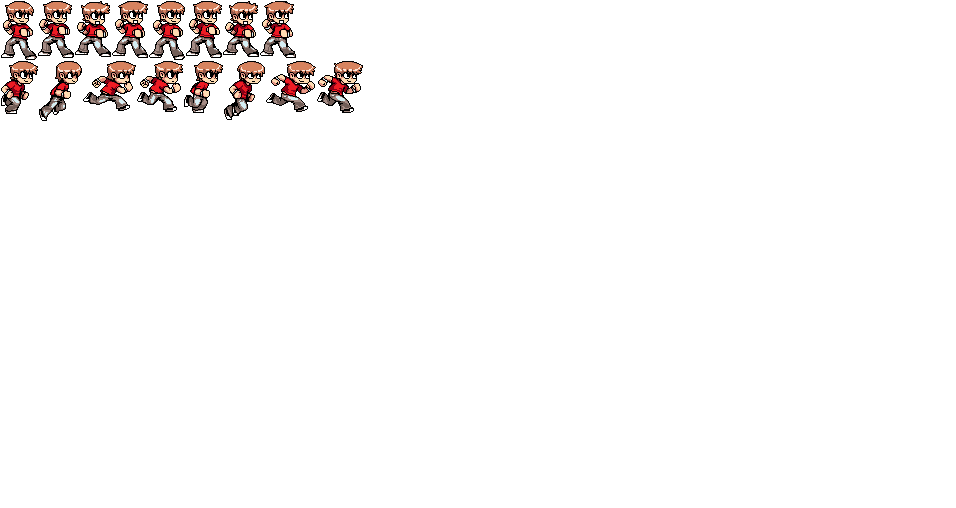
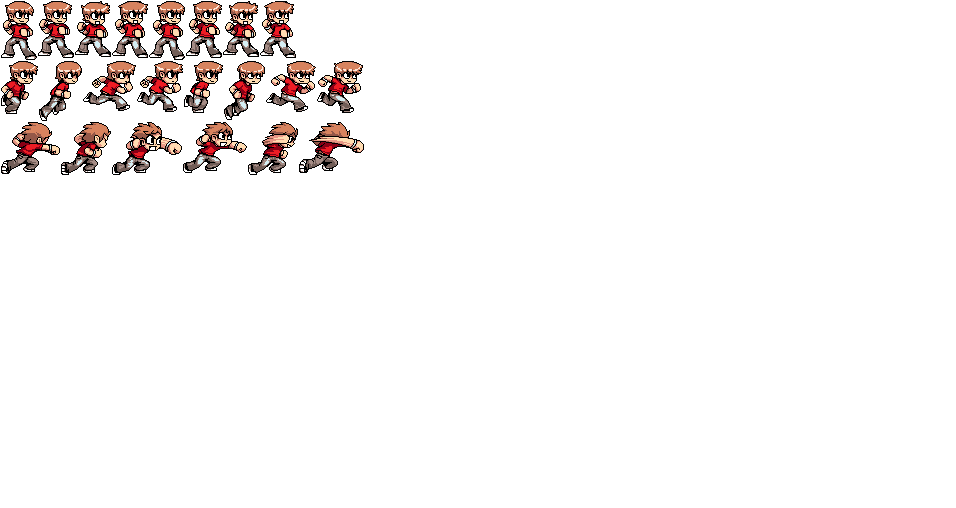
add punching animation

Changed region(s): [[0.0, 0.2362, 0.3944, 0.3543]]

diff --git a/Scripts/objects/player.ts b/Scripts/objects/player.ts
@@ -33,7 +33,7 @@ module objects {
         update(input: managers.Input) {
             //var diffRegX = this.widths[constants.Animations[this.currentAnimation]][player.currentFrame] * 0.5 - this.regX;
             //var diffRegY = this.heights[constants.Animations[this.currentAnimation]][player.currentFrame] * 0.5 - this.regX;
-
+            console.log(this.currentAnimation + ' ');
             this.regX = this.widths[constants.Animations[this.currentAnimation]][player.currentFrame] * 0.5;
             this.regY = this.heights[constants.Animations[this.currentAnimation]][player.currentFrame] * 0.5;
             //this.x += diffRegX;
@@ -47,31 +47,35 @@ module objects {
             }
             */
 
-            if (input.isKeyDown(constants.RIGHT)) {
-                this.scaleX = 1;
-                if (this.currentAnimation != "dash") {
-                    this.gotoAndPlay("dash");
+            if (this.currentAnimation != "attack") {
+                if (input.isKeyDown(constants.RIGHT)) {
+                    this.scaleX = 1;
+                    if (this.currentAnimation != "dash") {
+                        this.gotoAndPlay("dash");
+                    }
+                    this.x += this.speed;
+                    this.actualX += this.speed;
+                    this.lastMovement = this.speed;
+                } else if (input.isKeyDown(constants.LEFT)) {
+                    this.scaleX = -1;
+                    if (this.currentAnimation != "dash") {
+                        this.gotoAndPlay("dash");
+                    }
+                    this.x -= this.speed;
+                    this.actualX -= this.speed;
+                    this.lastMovement = -this.speed;
                 }
-                this.x += this.speed;
-                this.actualX += this.speed;
-                this.lastMovement = this.speed;
-            } else if (input.isKeyDown(constants.LEFT)) {
-                this.scaleX = -1;
-                if (this.currentAnimation != "dash") {
-                    this.gotoAndPlay("dash");
-                }
-                this.x -= this.speed;
-                this.actualX -= this.speed;
-                this.lastMovement = -this.speed;
-            }
-            else {
-                this.lastMovement = 0;
-                if (this.currentAnimation != "idle") {
-                    this.gotoAndPlay("idle");
+                else {
+                    this.lastMovement = 0;
+                    if (this.currentAnimation != "idle") {
+                        this.gotoAndPlay("idle");
+                    }
                 }
             }
             if(input.hasKeyBeenUp(constants.SPACE)) {
-                console.log('space');
+                if (this.currentAnimation != "attack") {
+                    this.gotoAndPlay("attack");
+                }
             }
         }
 

diff --git a/Scripts/objects/player.js b/Scripts/objects/player.js
@@ -38,6 +38,7 @@ var objects;
         Player.prototype.update = function (input) {
             //var diffRegX = this.widths[constants.Animations[this.currentAnimation]][player.currentFrame] * 0.5 - this.regX;
             //var diffRegY = this.heights[constants.Animations[this.currentAnimation]][player.currentFrame] * 0.5 - this.regX;
+            console.log(this.currentAnimation + ' ');
             this.regX = this.widths[constants.Animations[this.currentAnimation]][player.currentFrame] * 0.5;
             this.regY = this.heights[constants.Animations[this.currentAnimation]][player.currentFrame] * 0.5;
 
@@ -51,30 +52,34 @@ var objects;
             console.log('down');
             }
             */
-            if (input.isKeyDown(constants.RIGHT)) {
-                this.scaleX = 1;
-                if (this.currentAnimation != "dash") {
-                    this.gotoAndPlay("dash");
-                }
-                this.x += this.speed;
-                this.actualX += this.speed;
-                this.lastMovement = this.speed;
-            } else if (input.isKeyDown(constants.LEFT)) {
-                this.scaleX = -1;
-                if (this.currentAnimation != "dash") {
-                    this.gotoAndPlay("dash");
-                }
-                this.x -= this.speed;
-                this.actualX -= this.speed;
-                this.lastMovement = -this.speed;
-            } else {
-                this.lastMovement = 0;
-                if (this.currentAnimation != "idle") {
-                    this.gotoAndPlay("idle");
+            if (this.currentAnimation != "attack") {
+                if (input.isKeyDown(constants.RIGHT)) {
+                    this.scaleX = 1;
+                    if (this.currentAnimation != "dash") {
+                        this.gotoAndPlay("dash");
+                    }
+                    this.x += this.speed;
+                    this.actualX += this.speed;
+                    this.lastMovement = this.speed;
+                } else if (input.isKeyDown(constants.LEFT)) {
+                    this.scaleX = -1;
+                    if (this.currentAnimation != "dash") {
+                        this.gotoAndPlay("dash");
+                    }
+                    this.x -= this.speed;
+                    this.actualX -= this.speed;
+                    this.lastMovement = -this.speed;
+                } else {
+                    this.lastMovement = 0;
+                    if (this.currentAnimation != "idle") {
+                        this.gotoAndPlay("idle");
+                    }
                 }
             }
             if (input.hasKeyBeenUp(constants.SPACE)) {
-                console.log('space');
+                if (this.currentAnimation != "attack") {
+                    this.gotoAndPlay("attack");
+                }
             }
         };
 

diff --git a/Scripts/managers/asset.ts b/Scripts/managers/asset.ts
@@ -10,22 +10,28 @@ module managers {
     var newPlayerSheetData = {
         "images": ["assets/images/newPlayer.png"],
         "frames": [
-            [1, 1, 36, 59],    //idle      [0]
-            [38, 1, 36, 57],   //idle      [1]
-            [75, 1, 36, 56],   //idle      [2]
-            [112, 1, 36, 57],  //idle      [3]
-            [149, 1, 36, 59],  //idle      [4]
-            [186, 1, 36, 57],  //idle      [5]
-            [223, 1, 36, 56],  //idle      [6]
-            [260, 1, 36, 57],  //idle      [7]
-            [1, 61, 37, 53],   //dash      [8]
-            [39, 61, 43, 60],  //dash      [9]
-            [84, 61, 53, 60],  //dash     [10]
-            [137, 61, 46, 51], //dash     [11]
-            [185, 61, 39, 52], //dash     [12]
-            [224, 61, 41, 59], //dash     [13]
-            [266, 61, 50, 51], //dash     [14]
-            [317, 61, 46, 52]  //dash     [15]
+            [1, 1, 36, 59],     //idle      [0]
+            [38, 1, 36, 57],    //idle      [1]
+            [75, 1, 36, 56],    //idle      [2]
+            [112, 1, 36, 57],   //idle      [3]
+            [149, 1, 36, 59],   //idle      [4]
+            [186, 1, 36, 57],   //idle      [5]
+            [223, 1, 36, 56],   //idle      [6]
+            [260, 1, 36, 57],   //idle      [7]
+            [1, 61, 37, 53],    //dash      [8]
+            [39, 61, 43, 60],   //dash      [9]
+            [84, 61, 53, 60],   //dash     [10]
+            [137, 61, 46, 51],  //dash     [11]
+            [185, 61, 39, 52],  //dash     [12]
+            [224, 61, 41, 59],  //dash     [13]
+            [266, 61, 50, 51],  //dash     [14]
+            [317, 61, 46, 52],  //dash     [15]
+            [1, 122, 59, 52],   //attack   [16]
+            [61, 122, 50, 53],  //attack   [17]
+            [112, 122, 70, 53], //attack   [18]
+            [183, 122, 64, 51], //attack   [19]
+            [248, 122, 50, 53], //attack   [20]
+            [299, 122, 65, 51]  //attack   [21]
         ],
         "animations": {
             "idle": {
@@ -34,6 +40,11 @@ module managers {
             },
             "dash": {
                 frames: [8, 9, 10, 11, 12, 13, 14, 15],
+                speed: constants.ANIMATION_TIME
+            },
+            "attack": {
+                frames: [16, 17, 18, 19, 20, 21],
+                next: "idle",
                 speed: constants.ANIMATION_TIME
             }
         }

diff --git a/Scripts/managers/asset.js b/Scripts/managers/asset.js
@@ -25,7 +25,13 @@ var managers;
             [185, 61, 39, 52],
             [224, 61, 41, 59],
             [266, 61, 50, 51],
-            [317, 61, 46, 52]
+            [317, 61, 46, 52],
+            [1, 122, 59, 52],
+            [61, 122, 50, 53],
+            [112, 122, 70, 53],
+            [183, 122, 64, 51],
+            [248, 122, 50, 53],
+            [299, 122, 65, 51]
         ],
         "animations": {
             "idle": {
@@ -34,6 +40,11 @@ var managers;
             },
             "dash": {
                 frames: [8, 9, 10, 11, 12, 13, 14, 15],
+                speed: constants.ANIMATION_TIME
+            },
+            "attack": {
+                frames: [16, 17, 18, 19, 20, 21],
+                next: "idle",
                 speed: constants.ANIMATION_TIME
             }
         }

diff --git a/Scripts/constants.ts b/Scripts/constants.ts
@@ -38,7 +38,7 @@
     export var ESCAPE: string = 'Escape';
 
     // Player Animation Constants
-    export enum Animations { idle = 0, dash = 1 };
+    export enum Animations { idle = 0, dash = 1, attack = 2 };
     export var IDLE_WIDTH: number = 35;
     export var IDLE_HEIGHT: number = 40;
     export var FLY_WIDTH: number = 45;

diff --git a/Scripts/constants.js b/Scripts/constants.js
@@ -52,6 +52,7 @@
     (function (Animations) {
         Animations[Animations["idle"] = 0] = "idle";
         Animations[Animations["dash"] = 1] = "dash";
+        Animations[Animations["attack"] = 2] = "attack";
     })(constants.Animations || (constants.Animations = {}));
     var Animations = constants.Animations;
     ;
